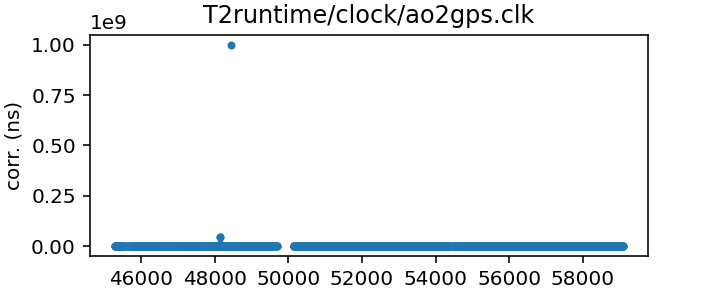
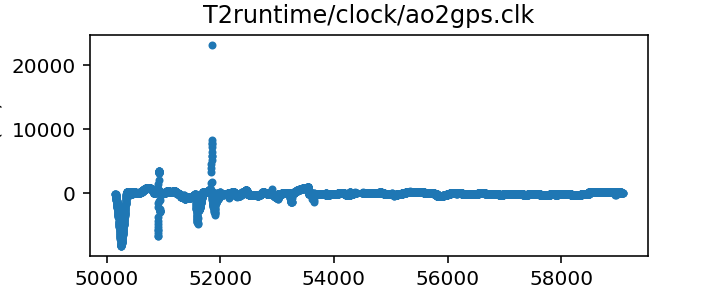
Minor tidying

diff --git a/status.md b/status.md
@@ -23,7 +23,7 @@ name of each clock file links to a page with more details.
 | Name | File | Corrections start | Corrections end | Last check date | Last check result 
 |:--- |:--- | --- | --- | --- |:--- 
 | [Arecibo](tempo/clock/time_ao.dat.html) | `tempo/clock/time_ao.dat` | 1982-11-29 MJD 45302.8 | 2020-08-18 MJD 59079.0 | 2022-05-26 | Updated 
-| [Arecibo (TEMPO2 converted from TEMPO)](T2runtime/clock/ao2gps.clk.html) | `T2runtime/clock/ao2gps.clk` | 1982-11-29 MJD 45302.8 | 2020-08-18 MJD 59079.0 | 2022-06-01 | Updated 
+| [Arecibo (TEMPO2 converted from TEMPO)](T2runtime/clock/ao2gps.clk.html) | `T2runtime/clock/ao2gps.clk` | 1996-03-13 MJD 50155.0 | 2020-08-18 MJD 59079.0 | 2022-06-01 | Updated 
 | [Arecibo (TEMPO2)](T2runtime/clock/ao2gps_tempo2.clk.html) | `T2runtime/clock/ao2gps_tempo2.clk` | 1996-03-13 MJD 50155.0 | 2019-12-18 MJD 58835.0 | 2022-05-26 | Unchanged 
 | [Arecibo to NIST (TEMPO2)](T2runtime/clock/ao2nist.clk.html) | `T2runtime/clock/ao2nist.clk` | 1982-11-29 MJD 45302.8 | 1994-11-29 MJD 49685.4 | 2022-05-26 | Unchanged 
 | [GB140](tempo/clock/time_gb140.dat.html) | `tempo/clock/time_gb140.dat` | 1993-11-29 MJD 49320.5 | 1999-07-31 MJD 51390.5 | 2022-06-01 | Updated 
@@ -36,7 +36,7 @@ name of each clock file links to a page with more details.
 | Name | File | Corrections start | Corrections end | Last check date | Last check result 
 |:--- |:--- | --- | --- | --- |:--- 
 | [GPS to UTC](T2runtime/clock/gps2utc.clk.html) | `T2runtime/clock/gps2utc.clk` | 1996-03-27 MJD 50169.0 | 2020-10-26 MJD 59148.0 | 2022-06-02 | Unchanged 
-| [GBT (TEMPO2)](T2runtime/clock/gbt2gps.clk.html) | `T2runtime/clock/gbt2gps.clk` | 2000-12-31 MJD 51909.5 | 2022-06-06 MJD 59736.5 | 2022-06-02 | Updated 
+| [GBT (TEMPO2)](T2runtime/clock/gbt2gps_tempo2.clk.html) | `T2runtime/clock/gbt2gps_tempo2.clk` | 2000-12-31 MJD 51909.5 | 2020-02-25 MJD 58904.5 | 2022-06-07 | Unchanged 
 | [Jodrell Bank](tempo/clock/time_jb.dat.html) | `tempo/clock/time_jb.dat` | 2006-10-13 MJD 54021.4 | 2019-05-13 MJD 58616.1 | 2022-06-02 | Unchanged 
 | [Jodrell Bank (TEMPO2)](T2runtime/clock/jb2gps.clk.html) | `T2runtime/clock/jb2gps.clk` | 2006-10-13 MJD 54021.4 | 2021-11-02 MJD 59521.0 | 2022-06-07 | Unchanged 
 | [VLA](tempo/clock/time_vla.dat.html) | `tempo/clock/time_vla.dat` | 1990-10-27 MJD 48191.2 | 2021-03-07 MJD 59280.5 | 2022-06-02 | Unchanged 
@@ -53,7 +53,7 @@ name of each clock file links to a page with more details.
 | [NUPPI](tempo/clock/time_nuppi.dat.html) | `tempo/clock/time_nuppi.dat` | 2005-03-07 MJD 53436.0 | 2015-11-08 MJD 57334.6 | 2022-06-02 | Unchanged 
 
 
-Further information:
+### Further information:
 
 - [What is this repository?](index.html)
 - [Instructions for using this repository with various software](instructions.html)

diff --git a/T2runtime/clock/ao2gps.clk.md b/T2runtime/clock/ao2gps.clk.md
@@ -3,24 +3,31 @@
 
 Arecibo clock corrections (TEMPO2 converted version)
 
-This file is automativally converted from the TEMPO-format Arecibo
-clock corrections, which cover the observatory's full operational
-history. Please see the Arecibo clock corrections for details.
+This file was automativally converted from the TEMPO-format Arecibo
+clock corrections (time_ao.dat), which cover the observatory's full
+operational history. Please see the Arecibo clock corrections for
+details, provenance, and contact information for the original data.
 
-The earliest clock corrections in this file predate GPS and are
+The earliest clock corrections in time_ao.dat predate GPS and are
 actually referenced to NIST time directly. Clock corrections from
-after 1995 are referenced to GPS. This file does not distinguish
-between the two, claiming to be entirely referenced to NIST.
+after 1995 are referenced to GPS. This file has been manually trimmed
+to contain only the GPS-referenced data.
+
+If questions arise about the original data, contact David Nice
+<niced@lafayette.edu>.
+
+If questions arise about the conversion, contact Anne Archibald
+<anne.archibald@newcastle.ac.uk>.
 
 |     |     |
 |:--- |:--- |
 | File | `T2runtime/clock/ao2gps.clk` |
-| Authority | converted |
+| Authority | temporary |
 | URL in repository | <https://raw.githubusercontent.com/nanograv/pulsar-clock-corrections/main/T2runtime/clock/ao2gps.clk> |
 | Original download URL | <None> |
 | Format | tempo2 |
 | Bogus last correction | False |
-| Clock file start | 1982-11-29 MJD 45302.8 |
+| Clock file start | 1996-03-13 MJD 50155.0 |
 | Clock file end | 2020-08-18 MJD 59079.0 |
 | Update interval (days) | inf |
 | Last update attempt | 2022-06-01 |

diff --git a/T2runtime/clock/gbt2gps_tempo2.clk.md b/T2runtime/clock/gbt2gps_tempo2.clk.md
@@ -1,0 +1,37 @@
+
+## GBT (TEMPO2)
+
+Green Bank Telescope clock corrections (TEMPO2 version)
+
+This file is pulled from the TEMPO2 repository and may not be fully up-to-date.
+
+|     |     |
+|:--- |:--- |
+| File | `T2runtime/clock/gbt2gps_tempo2.clk` |
+| Authority | temporary |
+| URL in repository | <https://raw.githubusercontent.com/nanograv/pulsar-clock-corrections/main/T2runtime/clock/gbt2gps_tempo2.clk> |
+| Original download URL | <https://bitbucket.org/psrsoft/tempo2/raw/HEAD/T2runtime/clock/gbt2gps.clk> |
+| Format | tempo2 |
+| Bogus last correction | False |
+| Clock file start | 2000-12-31 MJD 51909.5 |
+| Clock file end | 2020-02-25 MJD 58904.5 |
+| Update interval (days) | 7 |
+| Last update attempt | 2022-06-07 |
+| Last update result | Unchanged |
+
+Log entries from the last few update attempts:
+```
+2022-05-26 08:50:57.933 - Unchanged
+2022-06-07 15:28:20.238 - Unchanged
+```
+[Full log](https://raw.githubusercontent.com/nanograv/pulsar-clock-corrections/main/log/T2runtime/clock/gbt2gps_tempo2.clk.log)
+
+
+All clock corrections:
+
+![plot of all clock corrections](gbt2gps_tempo2.clk.png "All corrections")
+
+Recent clock corrections:
+
+![plot of recent clock corrections](gbt2gps_tempo2.clk.short.png "Recent corrections")
+

diff --git a/T2runtime/clock/gbt2gps.clk.md b/T2runtime/clock/gbt2gps.clk.md
@@ -8,6 +8,12 @@ clock corrections, which are obtained directly from the observatory.
 Thus these can be expected to be fully up to date. Please see the
 GBT clock corrections file entry for further details.
 
+If questions arise about the original data, contact Ryan S. Lynch
+<rlynch@nrao.edu>.
+
+If questions arise about the conversion, contact Anne Archibald
+<anne.archibald@newcastle.ac.uk>.
+
 |     |     |
 |:--- |:--- |
 | File | `T2runtime/clock/gbt2gps.clk` |

diff --git a/instructions.md b/instructions.md
@@ -90,3 +90,10 @@ there is a pull request under active development to make PINT request
 up-to-date clock corrections directly from the repository. Long-term, the
 intention of the PINT developers is that you need not do anything to obtain
 up-to-date clock corrections from this repository.
+
+
+### Further information:
+
+- [What is this repository?](index.html)
+- [Status page](status.html)
+

diff --git a/index.md b/index.md
@@ -5,4 +5,4 @@ These pages are meant to be a repository of clock corrections recording the diff
 - [Instructions for using this repository with various software](instructions.html)
 - [Status page](status.html)
 
-This repository is currently maintained by Anne Archibald <anne.archibald@nanograv.org>.
+This repository is currently maintained by Anne Archibald <anne.archibald@newcastle.ac.uk>.

diff --git a/tempo/clock/time_ao.dat.md b/tempo/clock/time_ao.dat.md
@@ -12,6 +12,8 @@ actually referenced to NIST time directly. Clock corrections from
 after 1995 are referenced to GPS. This file does not distinguish
 between the two.
 
+If questions arise, contact David Nice <niced@lafayette.edu>.
+
 |     |     |
 |:--- |:--- |
 | File | `tempo/clock/time_ao.dat` |
